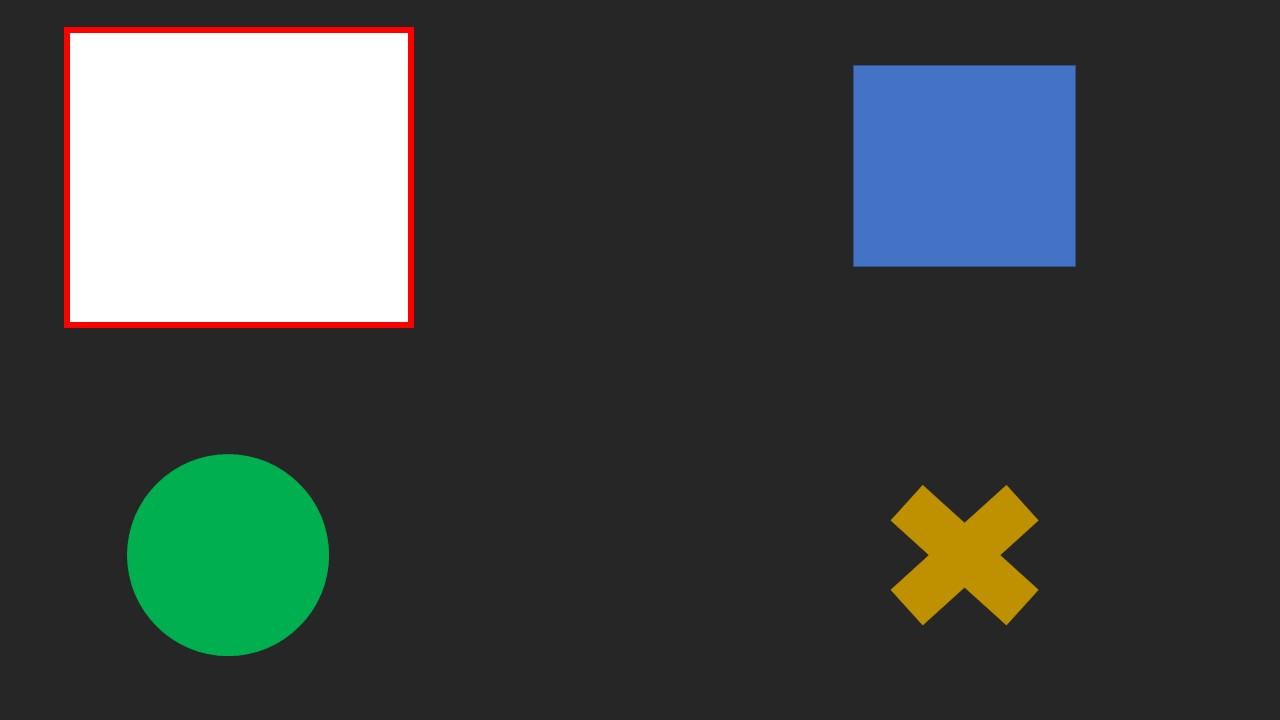
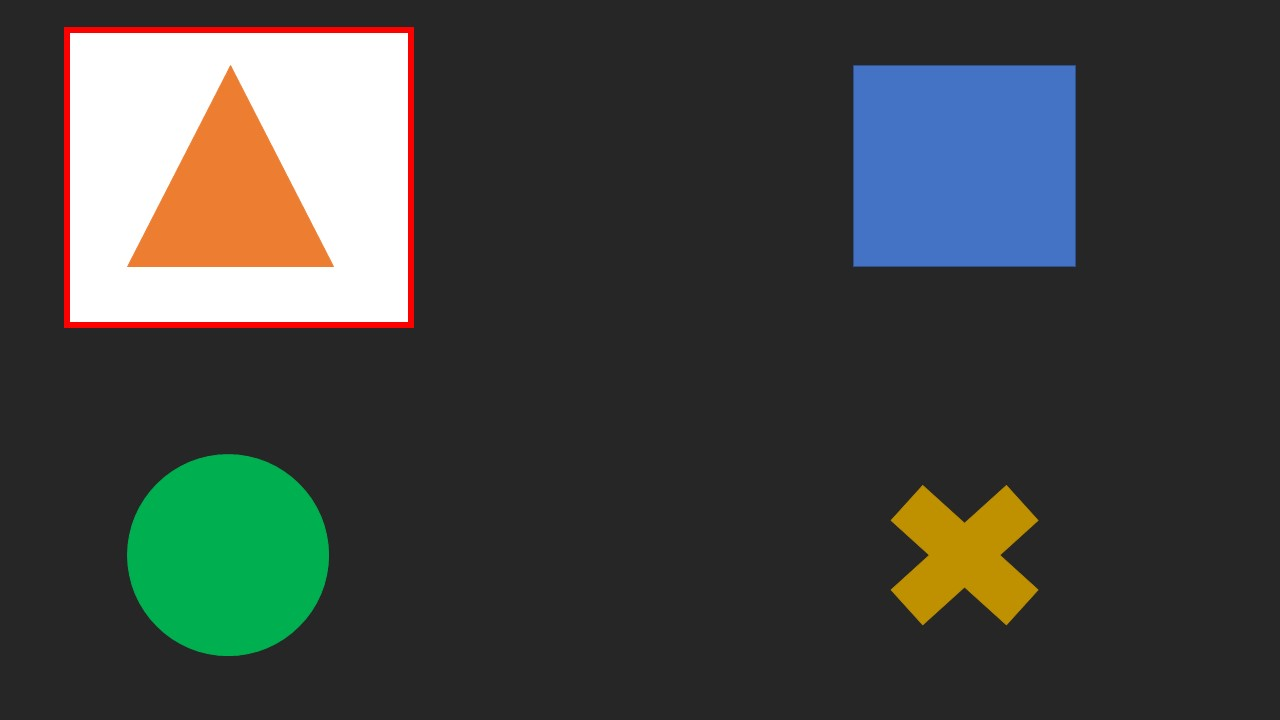
update white background triggers & small fixes

Changed region(s): [[0.0938, 0.0917, 0.2812, 0.3972]]

diff --git a/P300/preprocessing.m b/P300/preprocessing.m
@@ -37,10 +37,6 @@ function [splitEEG, meanTrigs, processedEEG] = Preprocessing(splitEEG, triggersT
     for i =1:length(meanTrigs)
         for j=1:length(meanTrigs(i))
             %bandpass
-%             EEG_mirror = [squeeze(meanTrigs(i,j,:,:)) squeeze(flip(meanTrigs(i,j,:,:),2))];
-%             EEG_tran = bandpass(EEG_mirror.', [0.5 40], Utils.Config.Hz);
-%             EEG_pass = EEG_tran.';
-%             EEG_pass = EEG_pass(:,size(EEG_pass,2)/2);
             EEG_pass = squeeze(meanTrigs(i,j,:,:));
             %resampling
             if Utils.Config.Hz > Utils.Config.downSampleRate
@@ -53,6 +49,36 @@ function [splitEEG, meanTrigs, processedEEG] = Preprocessing(splitEEG, triggersT
     end   
 end
 
-
-
+% Tests
+%             EEG_mirror = [squeeze(meanTrigs(i,j,:,:)) squeeze(flip(meanTrigs(i,j,:,:),2))];
+% d = designfilt('bandpassiir', ...       % Response type
+%                'StopbandFrequency1',0.5, ...    % Frequency constraints
+%                'PassbandFrequency1',0.6, ...
+%                'PassbandFrequency2',1, ...
+%                'StopbandFrequency2',1.1, ...
+%                'StopbandAttenuation1',40, ...   % Magnitude constraints
+%                'PassbandRipple',1, ...
+%                'StopbandAttenuation2',50, ...
+%                'DesignMethod','ellip', ...      % Design method
+%                'MatchExactly','passband', ...   % Design method options
+%                'SampleRate',Utils.Config.Hz);               % Sample rate
+%             
+%             
+% x = wform' + 0.25*randn(500,1);
+% x(x < 0) = 0;
+% y = filtfilt(d,x);
+% y1 = filter(d,x);
+% y1 = 0;
+% axis([0 500 -1.25 1.25])
+% subplot(2,1,1)
+% plot([y y1])
+% title('Filtered Waveforms')
+% legend('Zero-phase Filtering','Conventional Filtering')
+% 
+% subplot(2,1,2)
+% plot(x)
+% title('Original Waveform')
+%             EEG_tran = bandpass(EEG_mirror.', [0.5 40], Utils.Config.Hz);
+%             EEG_pass = EEG_tran.';
+%             EEG_pass = EEG_pass(:,size(EEG_pass,2)/2);
    

diff --git a/P300/+GUIFiles/ParametersGui.m b/P300/+GUIFiles/ParametersGui.m
@@ -66,7 +66,7 @@ GUI.bank = uicontrol('style','push',...
 %time between triggers 
 [GUI.timeBetweenTriggersTxt, GUI.timeBetweenTriggers] = LabelEditorCreator(...
     [lables_col_x_pos(2) labels_row_y_pos(1) text_width text_height], ['Time between ', sprintf('\n'), 'triggers(sec):'],...
-    [editor_col_x_pos(2) editor_row_y_pos(1) editor_width editor_height],'0.15,0.1');
+    [editor_col_x_pos(2) editor_row_y_pos(1) editor_width editor_height],'0.25,0.2');
 
 %Oddball Probability
 [GUI.trialLengthTxt, GUI.trialLength] = LabelEditorCreator(...
@@ -102,7 +102,7 @@ GUI.avType    = uicontrol('style','popupmenu',...
 
 %% Callbacks
 % triggerBank{1}= strcat(pwd, );
-GUI.bank.UserData = '\TriggersBank\visual-3-classes-white-square';
+GUI.bank.UserData = '.\TriggersBank\visual-3-classes-white-square';
 set(GUI.Imp,'callback',{@GUIFiles.OpenImpedanceCallback});
 set(GUI.bank,'callback',{@GUIFiles.SelectTriggerBankCallback, GUI})
 
